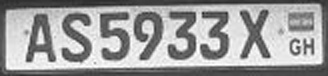
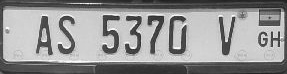
used pytesseract for character recognition

diff --git a/pytess.py b/pytess.py
@@ -13,7 +13,7 @@ except ImportError:
     IMAGE PREPROCESSING
 '''
 # reading the image
-First_Image = cv2.imread('test samples/1.jpg')
+First_Image = cv2.imread('test samples/4.jpg')
 
 #converting image to greyscale 
 grey_image = cv2.cvtColor(First_Image, cv2.COLOR_BGR2GRAY)
@@ -249,7 +249,10 @@ Iopen = bwareaopen(Iclear, 120)
     CHARACTER RECOGNITION
     using the tesseract ocr to detect the plate text out of the prepared image
 '''
-
+cv2.imwrite('chars.jpg', Iopen)
+img_with_chars = PIL.Image.open('chars.jpg')
+text = pytesseract.image_to_string(img_with_chars)
+print('Number Plate: {}'.format(text))
 
 
 #displaying various forms of images
